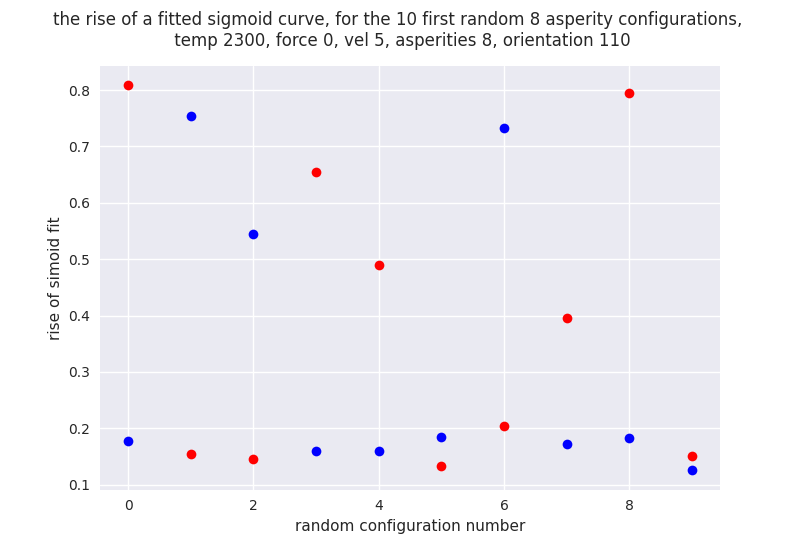
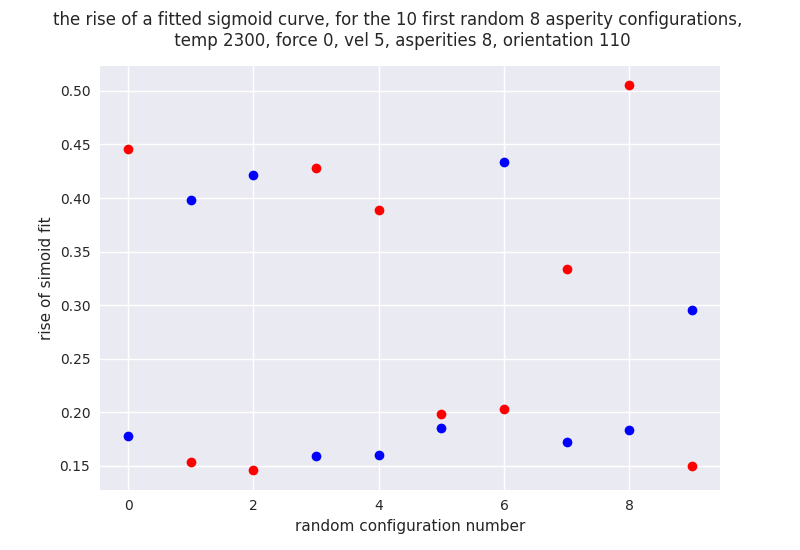
window 2500

diff --git a/python/post/get_load_curves.py b/python/post/get_load_curves.py
@@ -73,7 +73,7 @@ def all_curves(production = True):
     vel = 5
     time = 2000 
     orientation = 110
-    window = 10
+    window = 2500
     #initnum = 0
     force = 0
 
